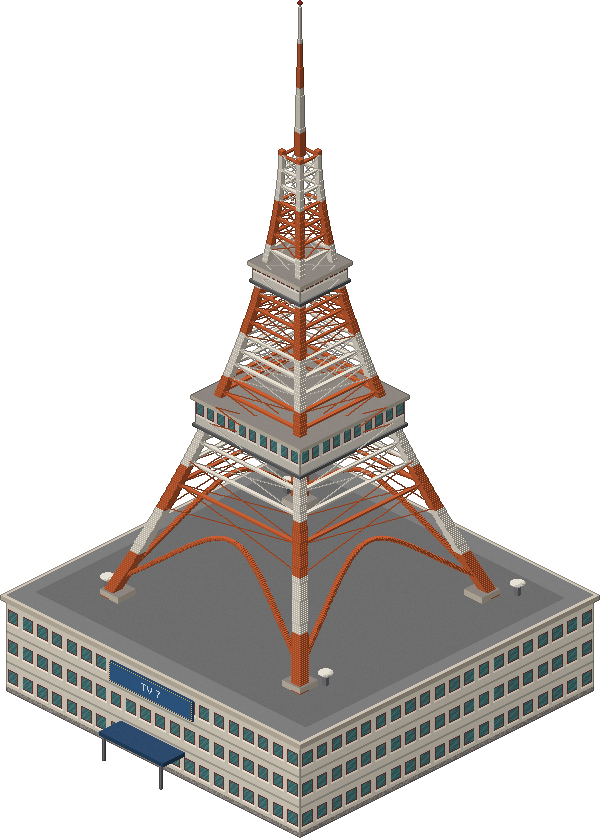
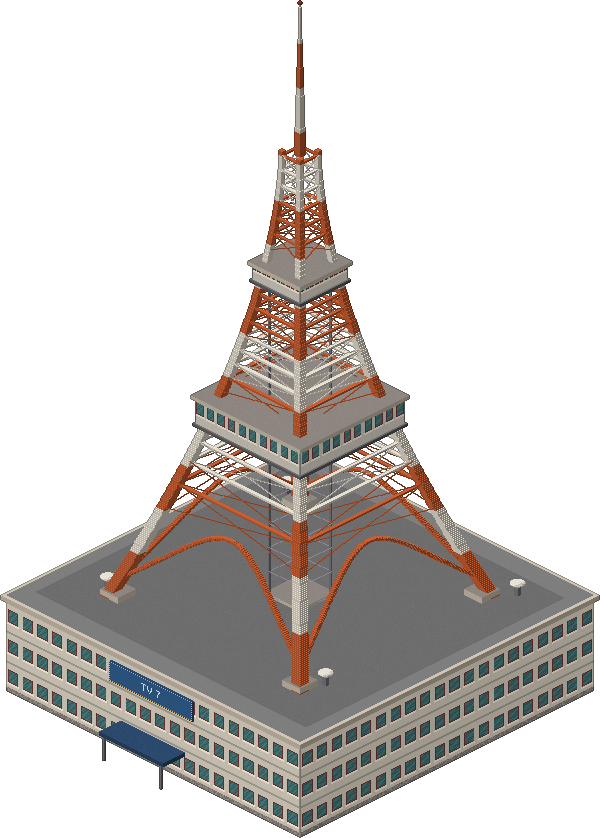
TV tower: no bracing through the decks; a panoramic elevator
The X bracing is drawn as lines at a single depth, so the struts spanning
the observation decks showed through their walls and roofs; bracing and
belts are now left out within a deck's height (TV_DECKS). An open steel
elevator shaft runs up the middle from a landing on the roof to the top
deck, and a glass cabin with a gold roof rides it (a 64-frame overlay,
8 s up and down with waits at each end), drawn against the station's own
depth buffer so the legs and decks in front of it hide it. save_anim
takes frames that are empty (the cabin inside a deck).

diff --git a/js/city.js b/js/city.js
@@ -1280,7 +1280,7 @@
     const blockedDoors = blocked.length;
     props.push(...late);
     // Drawn over the TV station, just in front of it in paint order.
-    if (tvLed) for (const n of ['side', 'front']) props.push([`art/landmarks/tv-ads-${n}.png`, tvLed[0], tvLed[1],
+    if (tvLed) for (const n of ['ads-side', 'ads-front', 'lift']) props.push([`art/landmarks/tv-${n}.png`, tvLed[0], tvLed[1],
       [tvLed[0] + 0.6, tvLed[0] + 0.7, tvLed[1] + 0.6, tvLed[1] + 0.7]]);
 
     // Crosswalks on the approaches to every 4-way crossing.

diff --git a/tools/art.py b/tools/art.py
@@ -1957,6 +1957,9 @@ TOWER_ORANGE, TOWER_WHITE = rgb("#c05a30"), rgb("#ddd6c8")
 TV_PODIUM = (4.6, 4.6, 3)                        # studio podium a × b tiles, floors
 TV_R0, TV_H = 1.35, 440                          # tower half-width on the roof, px from roof to top belt
 TV_CANVAS = (700, 1180, 350, 900)
+TV_DECKS = [(172, 24), (316, 14)]                # observation decks: z above the roof, height
+LIFT_R = 0.24                                    # elevator shaft half-width
+LIFT_FRAMES = 64                                 # 8 s up and down at 8 fps
 
 
 def tv_front(s):
@@ -2035,7 +2038,12 @@ def tv_station(seed):
             prev = pt
     levels = [88, 112, 134, 154, 172, 188, 204, 218, 232, 246, 260, 274, 288, 302, 316, 330, 346, 362, 378, 394,
               410, 426, H]
+    # No bracing where the decks are: struts are drawn as lines with one
+    # depth, and would show through the deck walls.
+    in_deck = lambda z0, z1: any(z0 < dz + dh + 6 and z1 > dz - 6 for dz, dh in TV_DECKS)
     for z0, z1 in zip(levels, levels[1:]):
+        if in_deck(z0, z1):
+            continue
         h0, h1 = half(z0), half(z1)
         for k in range(4):
             (ax, ay), (bx, by) = corners[k], corners[(k + 1) % 4]
@@ -2053,8 +2061,19 @@ def tv_station(seed):
         s.box(-r, -r, z, 2 * r, 2 * r, h, flat(s, "#9c9284"), wall(2 * r * 71.6), wall(2 * r * 71.6))
         s.box(-r - 0.04, -r - 0.04, z + h, 2 * r + 0.08, 2 * r + 0.08, 4, flat(s, "#8e8680"), flat(s, "#bdb3a2"), flat(s, "#a69c8c"))
         s.box(-r - 0.02, -r - 0.02, z - 3, 2 * r + 0.04, 2 * r + 0.04, 3, flat(s, "#6e6e6e"), flat(s, "#5b5a5c"), flat(s, "#4a494b"))
-    deck(172, half(172) + 0.1, 24)
-    deck(316, half(316) + 0.08, 14)
+    # Panoramic elevator: an open steel frame up the middle from the roof to
+    # the top deck (its cabin is drawn by tv_lift, over this sprite).
+    top = TV_DECKS[-1][0]
+    for cx, cy in ((-1, -1), (1, -1), (1, 1), (-1, 1)):
+        s.box(cx * LIFT_R - 0.012, cy * LIFT_R - 0.012, z0r, 0.024, 0.024, top, *(flat(s, c, 2) for c in STEEL))
+    for z in range(0, top, 24):
+        for k, (ax, ay) in enumerate(((-1, -1), (1, -1), (1, 1), (-1, 1))):
+            bx, by = ((1, -1), (1, 1), (-1, 1), (-1, -1))[k]
+            strut((ax * LIFT_R, ay * LIFT_R, z), (bx * LIFT_R, by * LIFT_R, z), rgb("#8e8897"), thick=1)
+    s.box(-LIFT_R - 0.03, -LIFT_R - 0.03, z0r, 2 * LIFT_R + 0.06, 2 * LIFT_R + 0.06, 3,
+          *(flat(s, c) for c in ("#8e8680", "#bdb3a2", "#a69c8c")))                 # landing on the roof
+    for dz, dh in TV_DECKS:
+        deck(dz, half(dz) + (0.1 if dz == TV_DECKS[0][0] else 0.08), dh)
     for z in range(H, H + 150, 4):                     # mast, striped, red light on top
         w = 0.1 * (1 - (z - H) / 190)
         s.box(-w / 2, -w / 2, z0r + z, w, w, 4, *(flat(s, band(z - H + 22) * k_) for k_ in (1.0, 0.9, 0.75)))
@@ -2298,6 +2317,32 @@ def led_ad(s, k, t, L, Hp):
                 out = stamp(out, col, row, text_bits("LIVE"), L * 0.42 + 3, Hp * 0.62 + 2, "#f0ece4", 1)
         return np.where(((xs + ys) % 2 == 0)[:, None], out, out * 0.8)       # LED dot pitch
     return shader
+
+
+def tv_lift(seed, f, depth):
+    """Frame f of the elevator cabin riding the tower's shaft, drawn over the
+    station: `depth` is the station's own depth buffer, so the legs and decks
+    in front hide it. It waits at the roof and the top deck, easing between."""
+    s = Sprite(*TV_CANVAS, seed)
+    s.depth = depth.copy()
+    t = f / LIFT_FRAMES
+    phase = min(1, max(0, (t - 0.1) / 0.35)) if t < 0.5 else 1 - min(1, max(0, (t - 0.6) / 0.35))
+    ease = phase * phase * (3 - 2 * phase)
+    a, b, floors = TV_PODIUM
+    roof = floors * FLOOR + 4 + 2
+    z = roof + 3 + ease * (TV_DECKS[-1][0] - 22)
+    r = LIFT_R - 0.04
+
+    def glass(a_, b_, xs, ys):
+        frame = (a_ < 0.12) | (a_ > 0.88) | (b_ < 0.1) | (b_ > 0.9)
+        rail = np.abs(b_ - 0.45) < 0.06
+        pane = np.array(GLASS_BLUE)[(xs // 2 + ys) % 4] * 1.25
+        out = np.where(rail[:, None], rgb("#c8c2b6"), pane)
+        return np.where(frame[:, None], rgb("#b8964a"), out)
+    s.box(-r, -r, z, 2 * r, 2 * r, 22, flat(s, "#8a6a2e"), glass, glass)
+    s.box(-r - 0.01, -r - 0.01, z + 22, 2 * r + 0.02, 2 * r + 0.02, 3, *(flat(s, c) for c in ("#b8964a", "#a08238", "#86692c")))
+    s.alpha[s.depth == depth] = 0                   # keep only the cabin, where it is in front
+    return s
 
 
 def tv_ads(seed, f, side):
@@ -2943,7 +2988,7 @@ def save_anim(frames, rel, **meta):
     path = OUT / rel
     path.parent.mkdir(parents=True, exist_ok=True)
     imgs = [f.image() for f in frames]
-    boxes = [im.getbbox() for im in imgs]
+    boxes = [bb for bb in (im.getbbox() for im in imgs) if bb]   # a frame may be empty (all hidden)
     x0, y0 = min(b[0] for b in boxes), min(b[1] for b in boxes)
     x1, y1 = max(b[2] for b in boxes), max(b[3] for b in boxes)
     w, h = x1 - x0, y1 - y0
@@ -3135,6 +3180,7 @@ def main():
     save(spr, "buildings/hotel.png", footprint=[fa, fb])
     spr, (fa, fb) = tv_station(340)
     save(spr, "landmarks/tv-station.png", footprint=[fa, fb], tip=[0, -spr.tip])
+    save_anim([tv_lift(343, f, spr.depth) for f in range(LIFT_FRAMES)], "landmarks/tv-lift.png", footprint=[0.1, 0.1])
     save_anim([tv_ads(341, f, True) for f in range(AD_FRAMES)], "landmarks/tv-ads-side.png", footprint=[0.1, 0.1])
     save_anim([tv_ads(342, f, False) for f in range(AD_FRAMES)], "landmarks/tv-ads-front.png", footprint=[0.1, 0.1])
     spr, (fa, fb) = fastfood(320)
